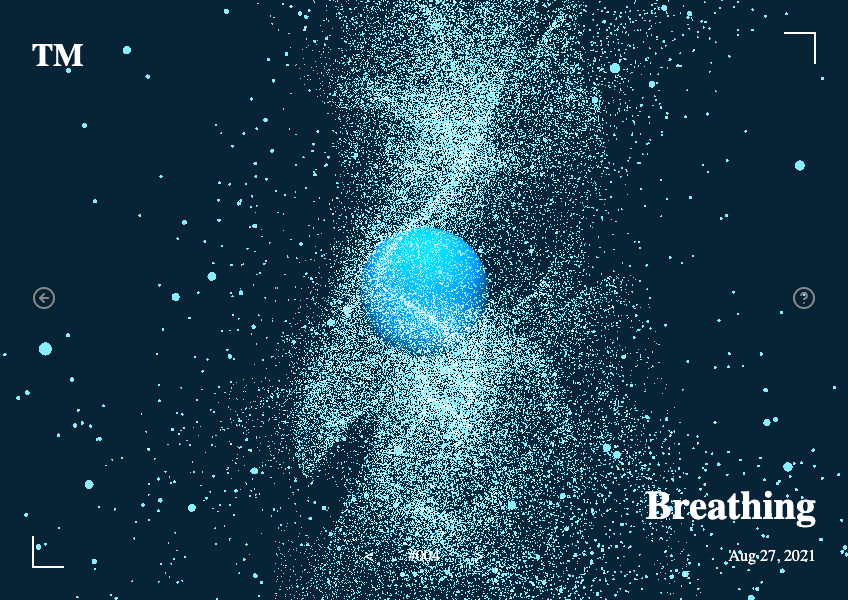
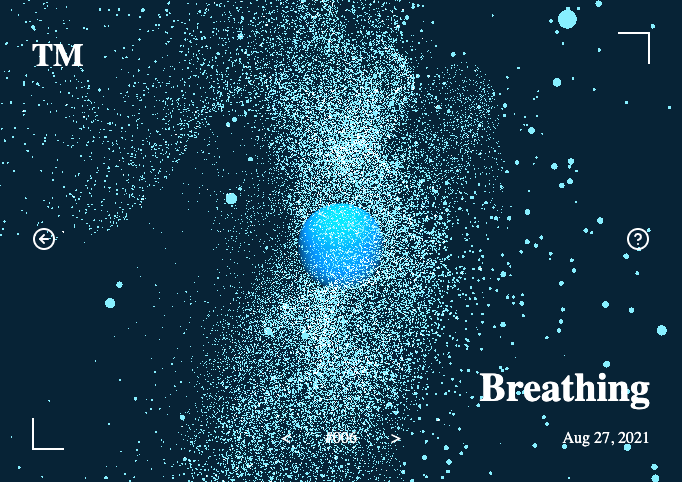
fixed

diff --git a/study-of-webgl/scripts/breathing.js b/study-of-webgl/scripts/breathing.js
@@ -229,8 +229,7 @@ class Sketch {
   
   setupCanvas() {
     this.renderer.setSize(this.width, this.height);
-    //this.renderer.setPixelRatio(window.devicePixelRatio);
-    this.renderer.setPixelRatio(1.0);
+    this.renderer.setPixelRatio(1);
     this.renderer.setClearColor(0x072336, 1.0);
     
     this.renderer.domElement.style.position = 'fixed';
@@ -252,13 +251,13 @@ class Sketch {
         fov,
         this.width / this.height,
         0.01,
-        1000
+        4
       );
-    this.camera.position.set(0, 0, 2);
-    this.camera.lookAt(new THREE.Vector3());
-
+    
     this.cameraV = new THREE.Vector3();
-    this.cameraP = new THREE.Vector3();
+    this.cameraP = new THREE.Vector3(0, 0, 2);
+    this.camera.position.set(this.cameraP);
+    this.camera.lookAt(new THREE.Vector3());
     
     this.scene.add(this.camera);
   }
@@ -283,28 +282,38 @@ class Sketch {
 
     // point light
     this.spotLight = new THREE.SpotLight(0xffffff);
-    this.spotLight.position.set(0, 0, 2);
+    this.spotLightV = new THREE.Vector3();
+    this.spotLightP = new THREE.Vector3(0, 0, 2);
+    this.spotLight.position.set(this.spotLightP);
+    this.spotLight.lookAt(new THREE.Vector3());
+    
     this.scene.add(this.spotLight);
+  }
+
+  updateLight() {
+    this.spotLightV.subVectors(this.mouse.mouse, this.spotLightP).multiplyScalar(0.05);
+    this.spotLightP.add(this.spotLightV);
+    
+    this.spotLight.position.set(
+      this.spotLightP.x * 2,
+      this.spotLightP.y * 2,
+      2
+    );
+
+    this.spotLight.lookAt(new THREE.Vector3());
   }
   
   setupShape() {
-    this.shapes = new Array();
-    this.num = 1;
-    
-    for (let i = 0; i < this.num; i++) {
-      const s = new Shape(this, 0, 0, 0);
-      this.shapes.push(s);
-    }
+    this.shape = new Shape(this, 0, 0, 0);
   }
   
   draw() {
     const time = this.time.getElapsedTime();
     
-    for (let i = 0; i < this.shapes.length; i++) {
-      this.shapes[i].render(time);
-    }
+    this.shape.render(time);
     
     this.updateCamera(time);
+    this.updateLight(time);
     
     this.renderer.render(this.scene, this.camera);
     
@@ -319,12 +328,29 @@ class Shape {
   constructor(sketch, x, y, z) {
     this.sketch = sketch;
     this.position = new THREE.Vector3(x, y, z);
+    
+    this.setupSizes();
     this.initialize();
   }
+
+  setupSizes() {
+    this.count = null;
+    this.sphereSize = null
+
+    if (this.sketch.width < 768) {
+      this.count = 80000;
+      this.sphereSize = 0.25;
+    }
+
+    if (this.sketch.width >= 768) {
+      this.count = 160000;
+      this.sphereSize = 0.3;
+    }
+  }
+
   
   initialize() {
     // particles
-    this.count = this.sketch.width < 480 ? 80000 : 160000;
     this.geometry = new THREE.BufferGeometry();
     this.vertices = new Float32Array(this.count * 3);
     this.numbers = new Float32Array(this.count);
@@ -361,7 +387,7 @@ class Shape {
     this.sketch.scene.add(this.mesh);
 
     // sphere
-    this.sphereGeometry = new THREE.SphereGeometry(0.3, 36, 36);
+    this.sphereGeometry = new THREE.SphereGeometry(this.sphereSize, 36, 36);
     this.sphereMaterial = new THREE.MeshLambertMaterial({
       color: 0x94ff,
       emissive: 0x072336

diff --git a/study-of-webgl/index.html b/study-of-webgl/index.html
@@ -229,7 +229,7 @@
           <div class="works">
             <div class="image">
               <a href="./works/breathing.html">
-                <img src="./images/breathing.png" loading="lazy" alt="breathing image" width="682" height="482">
+                <img class="progress" src="./images/breathing-dammy.png" data-src="./images/breathing.png" alt="breathing image" width="682" height="482">
                 <div class="overlay">
                   <span class="view">View</span>
                 </div>
